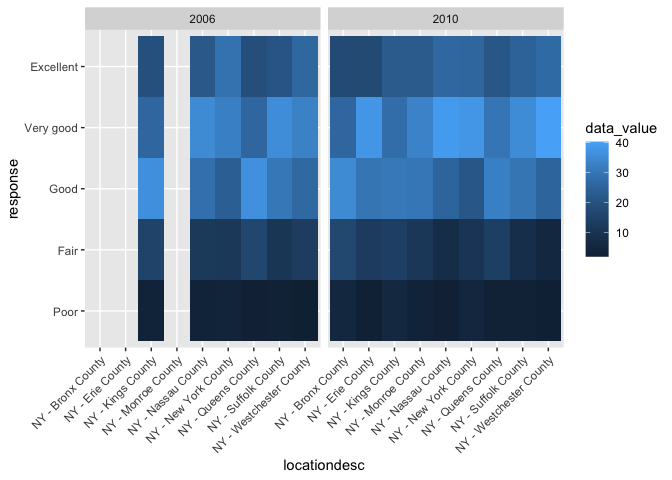
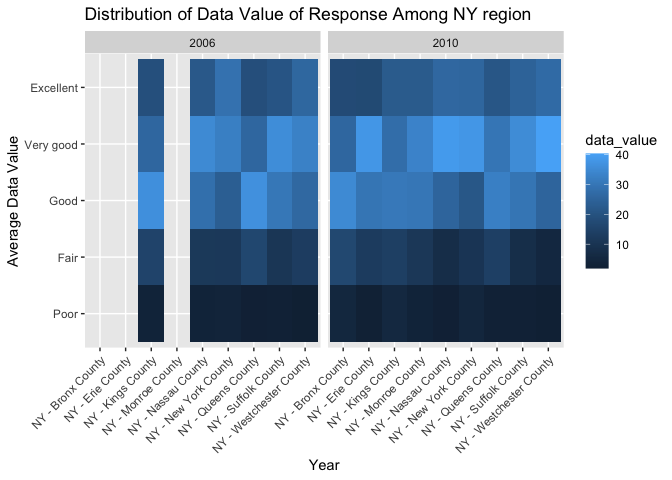
changed label of graph

diff --git a/p8105_hw3_yd2739.md b/p8105_hw3_yd2739.md
@@ -321,7 +321,8 @@ excellent_df = BRFSS_cleaned|>
 ``` r
 excellent_plot = excellent_df|>
   ggplot(aes(x = year, y = mean_data_value))+
-  geom_line(aes(color = locationabbr))
+  geom_line(aes(color = locationabbr))+
+  labs(title = "Average Data Value of 'Excellent' Responses Over Time", x = "Year", y = "Average Data Value") 
 excellent_plot
 ```
 
@@ -348,7 +349,8 @@ NY_distribution_plot = NY_distribution_df|>
   geom_col(position = 'stack', width = 0.6)+
   facet_grid(. ~ year)+
   theme(axis.text.x = element_text(angle = 90, vjust = 1, hjust=1)) +
-  coord_flip()
+  coord_flip()+
+  labs(title = "Distribution of Data Value of Response Among NY region", x = "Year", y = "Average Data Value") 
 
 NY_distribution_plot
 ```
@@ -360,7 +362,8 @@ NY_distribution_heatmap = NY_distribution_df|>
   ggplot(aes(x = locationdesc, y = response, fill = data_value)) + 
   geom_tile()+
   facet_grid(. ~ year)+
-  theme(axis.text.x = element_text(angle = 45, vjust = 1, hjust=1))
+  theme(axis.text.x = element_text(angle = 45, vjust = 1, hjust=1))+
+  labs(title = "Distribution of Data Value of Response Among NY region", x = "Year", y = "Average Data Value") 
 NY_distribution_heatmap
 ```
 
@@ -371,7 +374,8 @@ NY_distribution_boxplot = NY_distribution_df|>
   ggplot(aes(x = response, y = data_value)) + 
   geom_boxplot()+
   facet_grid(. ~ year)+
-  theme(axis.text.x = element_text(angle = 90, vjust = 1, hjust=1))
+  theme(axis.text.x = element_text(angle = 90, vjust = 1, hjust=1))+
+  labs(title = "Distribution of Data Value of Response Among NY", x = "Year", y = "Average Data Value") 
 NY_distribution_boxplot
 ```
 
@@ -508,11 +512,11 @@ agg_age_plot
     ## `geom_smooth()` using method = 'loess' and formula = 'y ~ x'
 
 ![](p8105_hw3_yd2739_files/figure-gfm/unnamed-chunk-20-1.png)<!-- --> We
-could observe that as age exceed 60, all movement starts to decrease
+could observe that as age exceed 60, all activity starts to decrease
 regardless of age or education level. In high school group and more than
-high school group, females shows higher movement compare to male, while
-less than high school group, male’s movement exceed female’s movement
-after exceeding 40 years old. Also, the average movement line for high
+high school group, females shows higher activity compare to male, while
+less than high school group, male’s activity exceed female’s activity
+after exceeding 40 years old. Also, the average activity line for high
 education level people is smoother.
 
 ``` r
